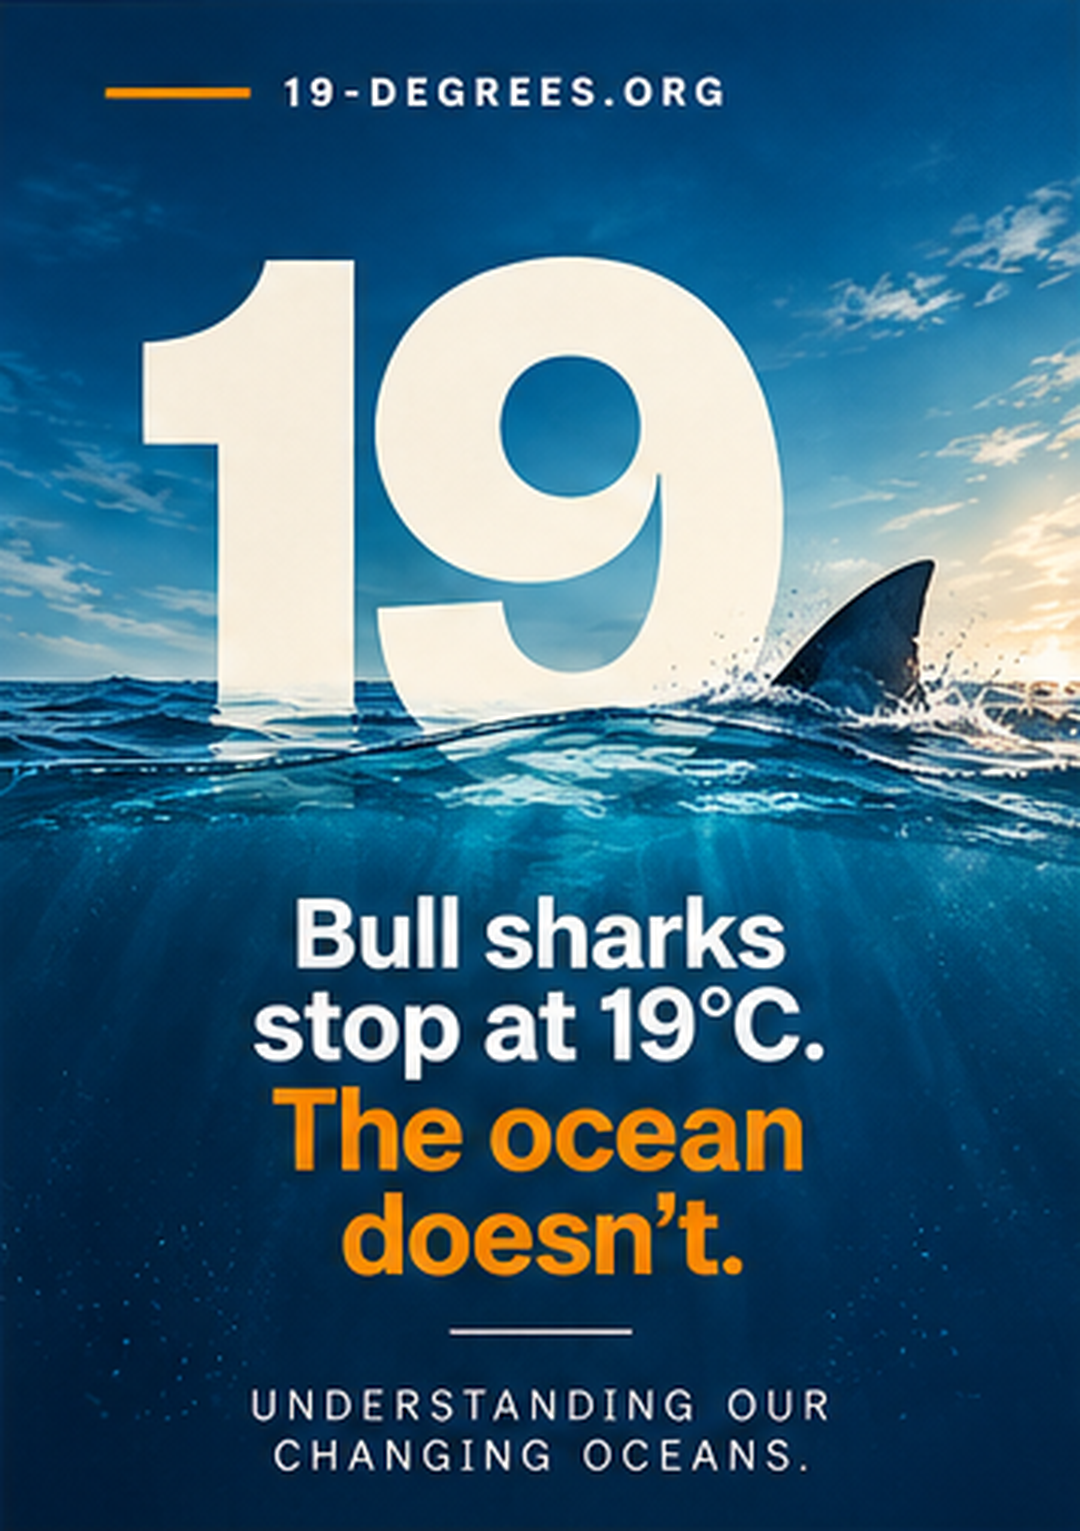
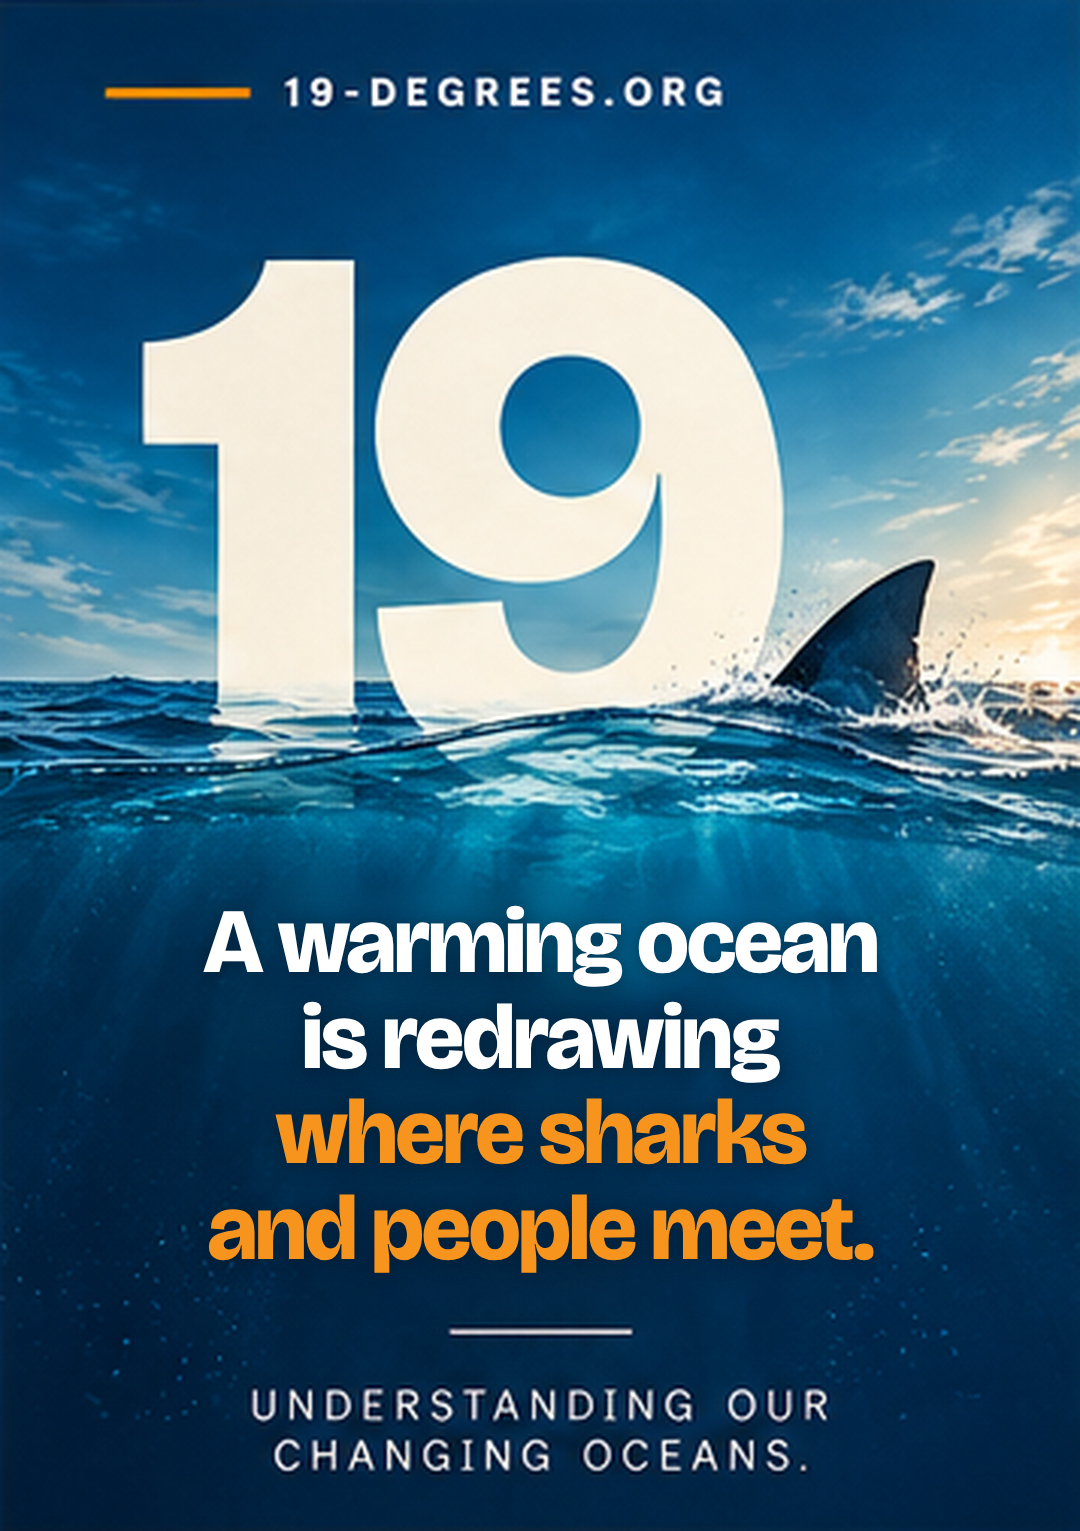
Home headline and buttons sit on the photo; share cards carry the same headline; sharper hero image; sunlit bar and wave return on scroll

Changed region(s): [[0.1833, 0.5833, 0.825, 0.8596]]

diff --git a/src/page19.html b/src/page19.html
@@ -35,9 +35,9 @@ a:focus-visible,button:focus-visible{outline:2px solid var(--warm);outline-offse
 .num{font-family:var(--f-data);font-variant-numeric:tabular-nums}
 
 /* mark bar: fin-over-19 mark, today's reading on the right */
-.bar{position:sticky;top:0;z-index:6;display:flex;align-items:center;justify-content:space-between;gap:16px;padding:var(--lpad) calc(var(--lpad) + env(safe-area-inset-right,0px)) var(--lpad) calc(var(--lpad) + env(safe-area-inset-left,0px));margin:0 calc(50% - 50vw);background:#0A2F4E;transition:background .25s}
+.bar{position:sticky;top:0;z-index:6;display:flex;align-items:center;justify-content:space-between;gap:16px;padding:var(--lpad) calc(var(--lpad) + env(safe-area-inset-right,0px)) var(--lpad) calc(var(--lpad) + env(safe-area-inset-left,0px));margin:0 calc(50% - 50vw);background:linear-gradient(180deg,#3395BE,#2A86AE);transition:background .25s}
 /* on Home, at the top of the page, the nav sits over the photo: no fill, no wave, until the page scrolls */
-.wrap:has(#panel-home:not([hidden])) .bar:not(.stuck){background:linear-gradient(180deg,rgba(7,36,60,.55),rgba(7,36,60,0))}
+.wrap:has(#panel-home:not([hidden])) .bar:not(.stuck){background:linear-gradient(180deg,rgba(7,36,60,.55),rgba(7,36,60,0));background-color:transparent}
 .barwave{transition:opacity .25s}
 .wrap:has(#panel-home:not([hidden])) .bar:not(.stuck) .barwave{opacity:0}
 .barwave{position:absolute;left:0;right:0;top:100%;height:28px;overflow:hidden;pointer-events:none}
@@ -53,9 +53,17 @@ a:focus-visible,button:focus-visible{outline:2px solid var(--warm);outline-offse
 
 /* hero: the hook (near the surface the water is lighter, so secondary text is lighter too) */
 .hero{--muted:#B4CDD8;--cold:#7CC7F0;--warm:#F5B061}
-.cardhero{position:relative;left:50%;transform:translateX(-50%);width:100vw;line-height:0;margin:calc(-1 * var(--barh,var(--surf-h))) 0 0;-webkit-mask-image:linear-gradient(to bottom,#000 82%,transparent);mask-image:linear-gradient(to bottom,#000 82%,transparent)}
+.cardhero{position:relative;left:50%;transform:translateX(-50%);width:100vw;line-height:0;overflow:hidden;margin:calc(-1 * var(--barh,var(--surf-h))) 0 0;-webkit-mask-image:linear-gradient(to bottom,#000 80%,transparent);mask-image:linear-gradient(to bottom,#000 80%,transparent)}
 .cardhero img{display:block;width:100%;height:auto;max-width:none}
-.cardhero + .hero{padding-top:8px}
+/* on short screens, trim some sky so the headline and buttons stay on the first screen */
+@media (min-width:641px){.cardhero img{margin-top:calc(-1 * clamp(0px,44.2vw + 230px - 100svh,7.5vw))}}
+.cardhero + .hero{position:relative;margin-top:-17.5vw;padding-top:0}
+/* */.cardhero + .hero .state,.cardhero + .hero .hcta{text-align:center;justify-content:center}
+.cardhero + .hero .state{font-size:clamp(32px,4.7vw,60px);text-shadow:0 2px 18px rgba(3,22,40,.5)}
+.cardhero + .hero .state span{display:block;color:#F7941D}
+.cardhero + .hero .hcta{margin:0 0 36px}
+@media (min-width:641px) and (max-height:700px){.cardhero img{margin-top:calc(-1 * clamp(0px,44.2vw + 230px - 100svh,8.5vw))}.cardhero + .hero{margin-top:-20vw}.cardhero + .hero .state{font-size:clamp(30px,3.9vw,50px)}}
+@media (max-width:640px){.cardhero + .hero{margin-top:-41vw}.cardhero + .hero .state{font-size:clamp(30px,9.4vw,40px)}}
 .hero{padding-block:44px 44px;display:grid;gap:20px;border-bottom:1px solid var(--rule)}
 .state{font-family:var(--f-display);font-weight:800;font-size:clamp(38px,5.6vw,68px);line-height:.96;letter-spacing:-.035em;margin:0;text-wrap:balance}
 .lede{font-size:clamp(20px,2.8vw,28px);line-height:1.35;margin:0;text-wrap:pretty}
@@ -174,7 +182,7 @@ h2{font-family:var(--f-display);font-weight:700;font-size:clamp(26px,4.4vw,44px)
 
 /* the ocean surface at the top of the page */
 .surface{position:absolute;inset:0 0 auto 0;height:var(--surf-h);pointer-events:none;z-index:0;overflow:hidden;
-  background:#0A2F4E}
+  background:linear-gradient(180deg,#3395BE 0,#2F8FB8 45%,#2A86AE 100%)}
 .surface svg{position:absolute;left:0;bottom:-1px;width:100%;height:36px}
 /* the logo sits with equal space above it, to its left, and below it to the waterline (the wave crest is ~18px above the band's bottom) */
 :root{--lpad:24px;--logo-h:clamp(31px,1.06vw + 25.5px,39px);--surf-h:calc(var(--lpad) * 2 + var(--logo-h) + 18px)}
@@ -727,19 +735,19 @@ section[aria-labelledby="h-q"] .cards.qs{grid-template-columns:repeat(2,minmax(0
     <button type="button" role="tab" id="tab-research" aria-controls="panel-research" aria-selected="false" tabindex="-1">Researchers</button>
     <button type="button" role="tab" id="tab-media" aria-controls="panel-media" aria-selected="false" tabindex="-1">News and media</button>
   </div><div class="menuextra"><a class="donatelink" data-from="menu" href="https://ko-fi.com/19degrees" target="_blank" rel="noopener"><svg viewBox="0 0 24 24" width="18" height="18" aria-hidden="true" fill="none" stroke="currentColor" stroke-width="2" stroke-linejoin="round"><path d="M12 20.5s-7.5-4.4-7.5-10.2A4.3 4.3 0 0 1 12 7.6a4.3 4.3 0 0 1 7.5 2.7c0 5.8-7.5 10.2-7.5 10.2z"/></svg>Donate</a></div></div></nav><a class="supporttop donatelink" data-from="nav" href="https://ko-fi.com/19degrees" target="_blank" rel="noopener" aria-label="Donate to 19 Degrees on Ko-fi (opens in a new tab)"><svg viewBox="0 0 24 24" width="18" height="18" aria-hidden="true" fill="none" stroke="currentColor" stroke-width="2" stroke-linejoin="round"><path d="M12 20.5s-7.5-4.4-7.5-10.2A4.3 4.3 0 0 1 12 7.6a4.3 4.3 0 0 1 7.5 2.7c0 5.8-7.5 10.2-7.5 10.2z"/></svg><span class="stl">Donate</span></a><div class="sharetop"><button type="button" class="sharetopbtn" aria-expanded="false" aria-controls="shareTopGrid" aria-label="Share this page"><svg viewBox="0 0 24 24" width="20" height="20" aria-hidden="true" fill="none" stroke="currentColor" stroke-width="2" stroke-linecap="round"><circle cx="18" cy="5" r="2.6"/><circle cx="6" cy="12" r="2.6"/><circle cx="18" cy="19" r="2.6"/><path d="M8.3 10.8l7.4-4.4M8.3 13.2l7.4 4.4"/></svg><span class="stl">Share</span></button><div class="sharegrid drop" id="shareTopGrid" hidden role="group" aria-label="Share on"><p class="sgh">Share 19 Degrees</p><a data-net="linkedin">LinkedIn</a><a data-net="x">X</a><a data-net="facebook">Facebook</a><a data-net="whatsapp">WhatsApp</a><button type="button" class="sgcopy">Copy link</button></div></div>
-    <div class="barwave" aria-hidden="true"><svg viewBox="0 0 1200 12" preserveAspectRatio="none"><path d="M0,6 Q75,0.5 150,6 T300,6 T450,6 T600,6 T750,6 T900,6 T1050,6 T1200,6 L1200,0 L0,0 Z" fill="#0A2F4E"/><path d="M0,6 Q75,0.5 150,6 T300,6 T450,6 T600,6 T750,6 T900,6 T1050,6 T1200,6" fill="none" stroke="#FFFFFF" stroke-width="1.5" vector-effect="non-scaling-stroke"/></svg></div>
+    <div class="barwave" aria-hidden="true"><svg viewBox="0 0 1200 12" preserveAspectRatio="none"><path d="M0,6 Q75,0.5 150,6 T300,6 T450,6 T600,6 T750,6 T900,6 T1050,6 T1200,6 L1200,0 L0,0 Z" fill="#2A86AE"/><path d="M0,6 Q75,0.5 150,6 T300,6 T450,6 T600,6 T750,6 T900,6 T1050,6 T1200,6" fill="none" stroke="#FFFFFF" stroke-width="1.5" vector-effect="non-scaling-stroke"/></svg></div>
   </div>
 
 
 
   <div role="tabpanel" id="panel-home" aria-labelledby="tab-home">
-  <div class="cardhero"><picture><source media="(max-width:640px)" srcset="share/hero-tall.jpg" width="1080" height="1199"><img src="share/hero-wide.jpg" width="1200" height="740" alt="A large 19 half under the sea surface beside a shark fin. Bull sharks stop at 19°C. The ocean doesn't." fetchpriority="high"></picture></div>
+  <div class="cardhero"><picture><source media="(max-width:640px)" srcset="share/hero-tall.jpg" width="1080" height="1199"><img src="share/hero-wide.jpg" srcset="share/hero-wide.jpg 1200w, share/hero-wide-2400.jpg 2400w" sizes="100vw" width="1200" height="740" alt="A large 19 standing half under the sea surface, with a shark fin cutting the water beside it." fetchpriority="high"></picture></div>
   <header class="hero" id="home-top">
+    <h1 class="state">A warming ocean is redrawing <span>where sharks and people meet.</span></h1>
+    <p class="hcta"><a class="ctabtn" href="#story" data-tab="story">Read the story →</a> <a class="ghbtn" href="#h-agenda" data-tab="research">See the 42 claims</a></p>
     <div class="kicker">Advancing shark and climate research worldwide</div>
-    <h1 class="state">A warming ocean is redrawing where sharks and people meet.</h1>
     <p class="lede">Seas are warming on every coast. Sharks are turning up in new places and new seasons, and more people are in the water than ever.</p>
     <p class="sub">The evidence that could keep both safe is scattered across agencies, labs and countries. 19 Degrees brings it into one open harbor, tests every claim in public, and gives it away free. It starts on Australia's coast and is built to run on any coast in the world.</p>
-    <p class="hcta"><a class="ctabtn" href="#story" data-tab="story">Read the story →</a> <a class="ghbtn" href="#h-agenda" data-tab="research">See the 42 claims</a></p>
   </header>
 
   <section id="evidence" aria-labelledby="h-evidence">

diff --git a/src/launch/head.html b/src/launch/head.html
@@ -2,7 +2,7 @@
 <title>19 Degrees: The ocean is moving. So are the sharks.</title>
 <meta name="description" content="Seas are warming on every coast. 19 Degrees brings scattered shark, climate and safety research into one open harbor and tests every claim in public.">
 <link rel="canonical" href="https://YOUR-SITE/">
-<meta name="theme-color" content="#0A2F4E">
+<meta name="theme-color" content="#2A86AE">
 <meta name="author" content="Blake Erickson">
 
 <!-- Link previews: LinkedIn, Facebook, Slack, iMessage, WhatsApp -->
@@ -14,7 +14,7 @@
 <meta property="og:image" content="https://YOUR-SITE/share/link-card.png">
 <meta property="og:image:width" content="1200">
 <meta property="og:image:height" content="630">
-<meta property="og:image:alt" content="A giant 19 rising out of the open ocean as a shark fin cuts the surface. Bull sharks stop at 19°C. The ocean doesn't.">
+<meta property="og:image:alt" content="A giant 19 rising out of the open ocean as a shark fin cuts the surface. A warming ocean is redrawing where sharks and people meet.">
 <meta property="og:locale" content="en_US">
 
 <!-- X / Twitter, Bluesky -->

diff --git a/src/share19.py b/src/share19.py
@@ -64,7 +64,7 @@ cards_html["link-card.png"] = (1200, 630, f"""<style>body{{margin:0;width:1200px
 .big{{position:absolute;left:250px;top:-40px;font-family:'Bricolage Grotesque';font-weight:800;font-size:560px;line-height:1;letter-spacing:-.06em;color:#F4EFE4}}
 .st{{position:absolute;left:0;right:0;bottom:44px;text-align:center;font-family:'Bricolage Grotesque';font-weight:800;font-size:42px;letter-spacing:-.03em;color:#fff;margin:0}}.st span{{color:#FFC27A}}</style>
 <div class="big">19</div><svg width="1200" height="630" style="position:absolute;inset:0">{FIN}</svg>
-<p class="st">Bull sharks stop at 19°C. <span>The ocean doesn't.</span></p>""")
+<p class="st">A warming ocean is redrawing <span>where sharks and people meet.</span></p>""")
 
 # Load the page fonts by file too, so cards render the same wherever Chromium doesn't pick up installed .woff fonts
 _fd = next((d for d in (os.path.join(os.path.dirname(os.path.abspath(__file__)), "..", "fonts"), os.path.expanduser("~/.local/share/fonts"))
